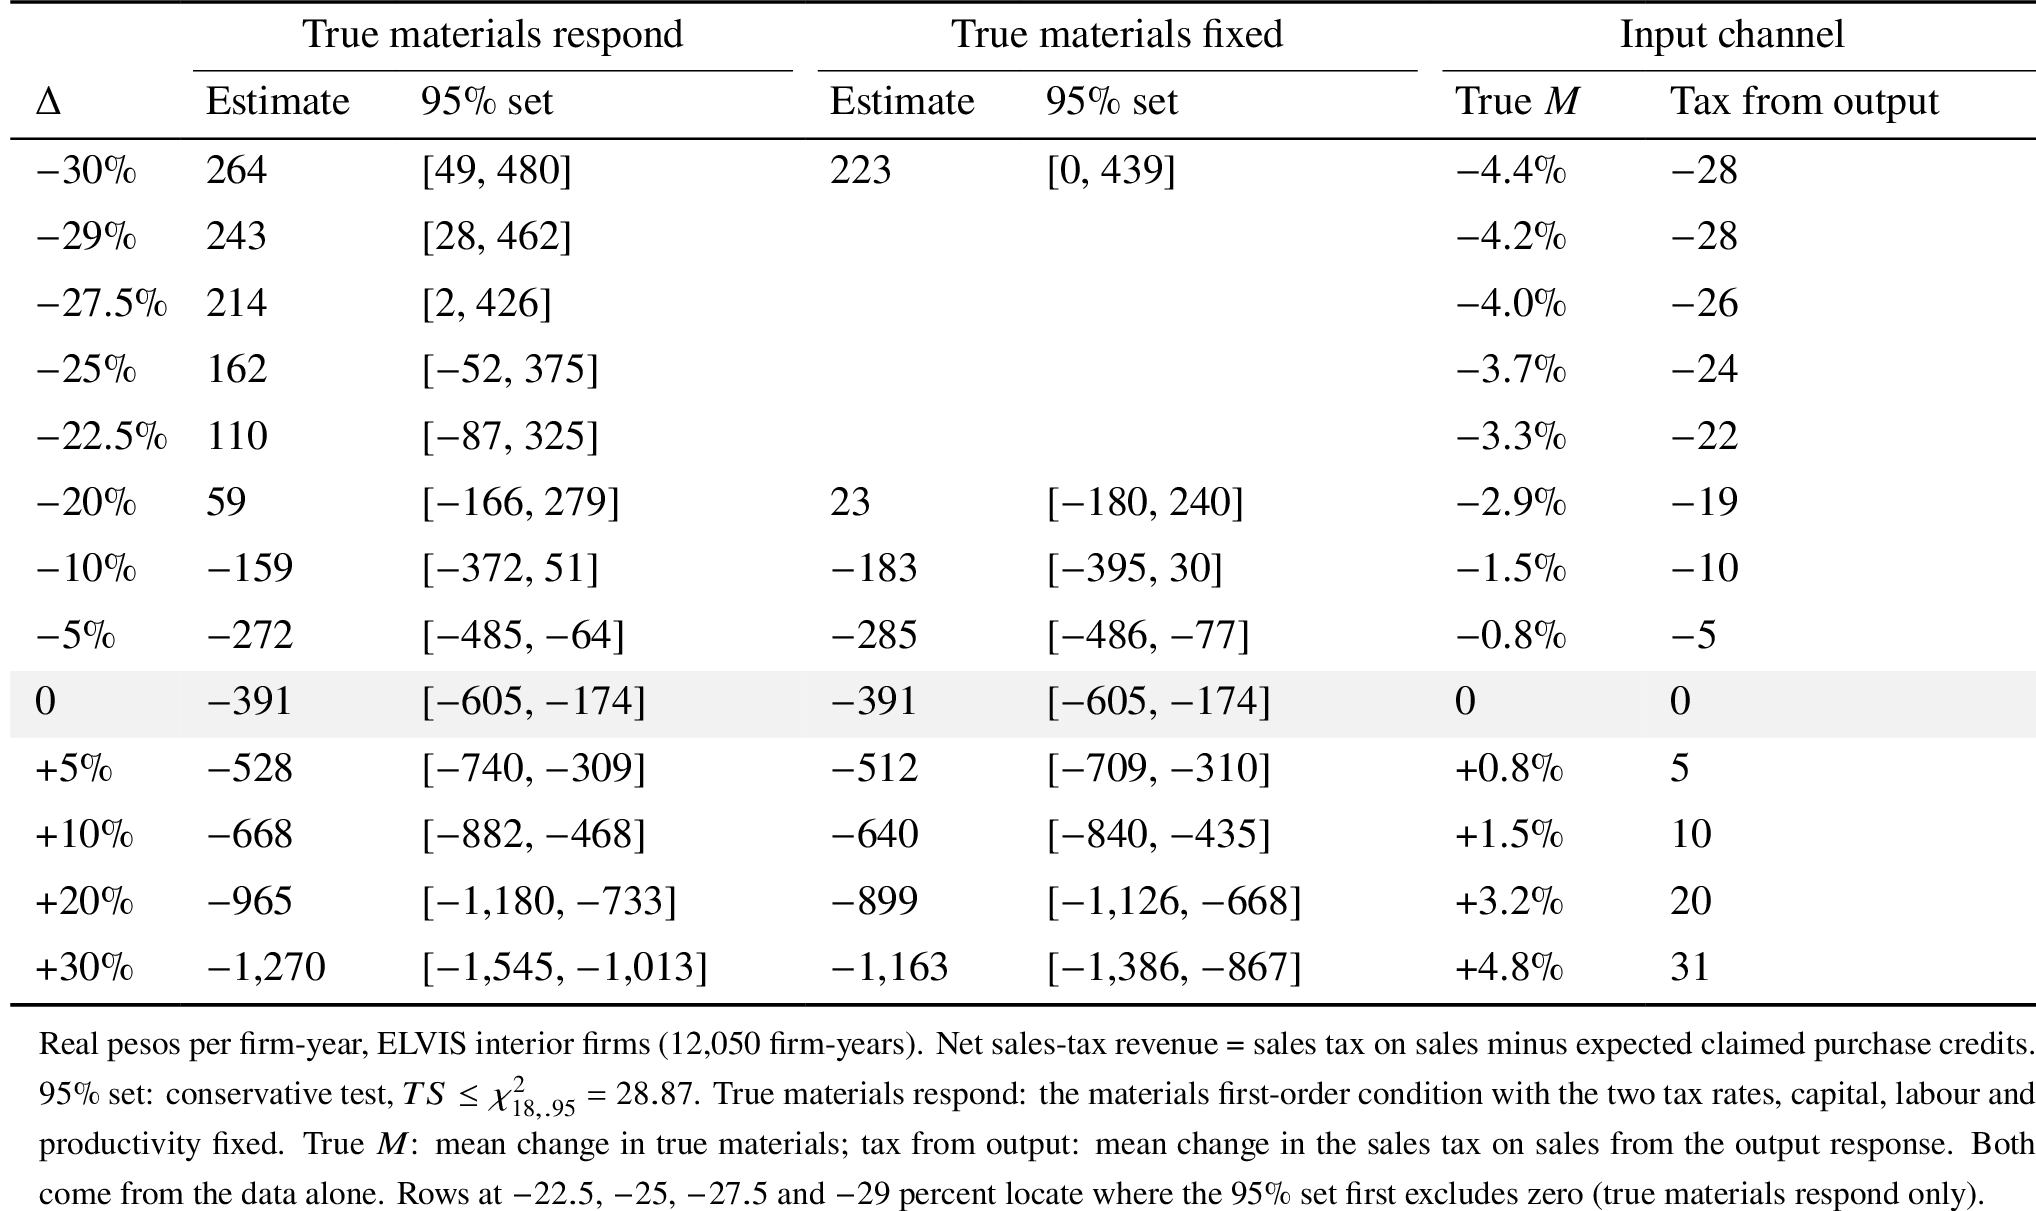
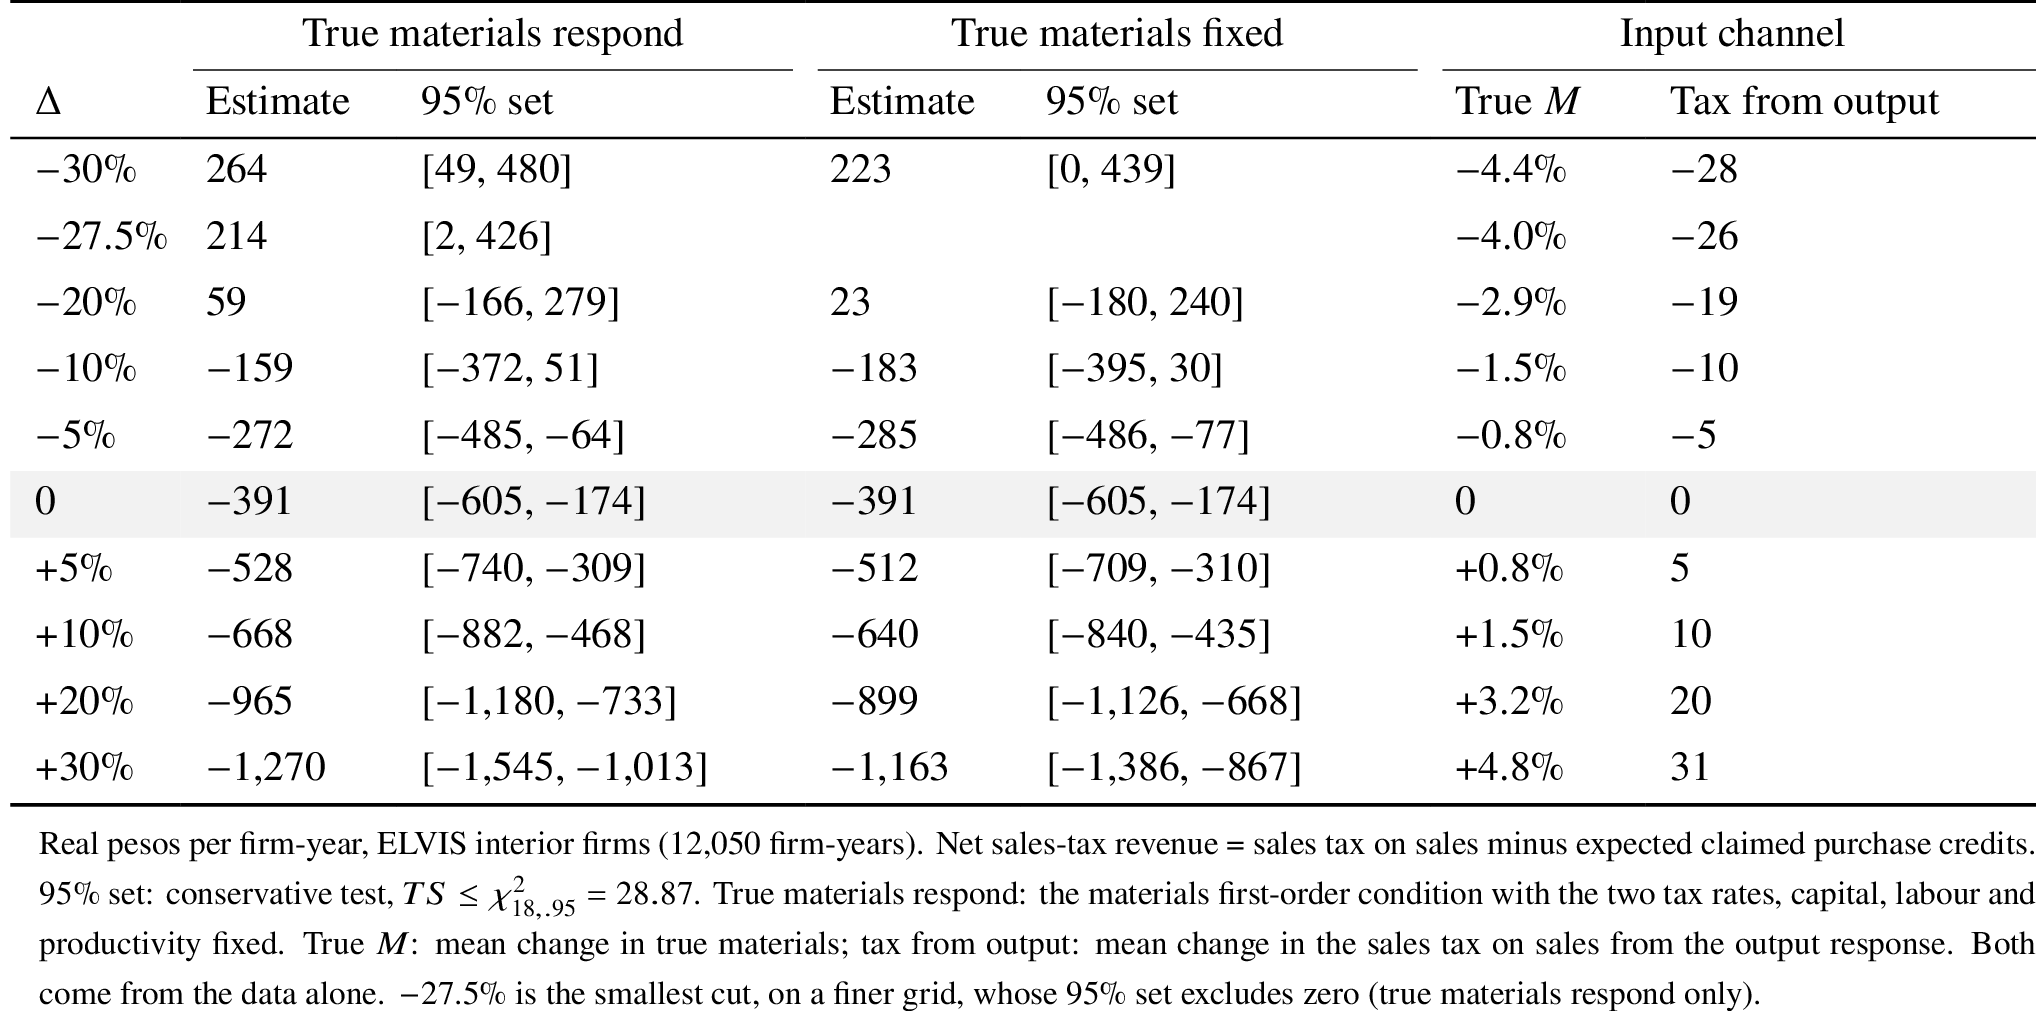
Ch. 8: claims-level material to a draft-only Superseded block; outline updated (two kinds of corner firms, no entry, lower bound on increases, allcorr check post-JMP); rewrite tracker; revenue table keeps only the -27.5% bracket row; PLAN post-JMP items

diff --git a/Thesis/PLAN.md b/Thesis/PLAN.md
@@ -136,6 +136,8 @@ JMP to supervisors **Tue 2026-10-13** (set 2026-10-06; the Sept 21–25 schedule
 | Tue 10-13 | Send to supervisors | `[ ]` |
 
 Post-deadline (not before Oct 13): κ sensitivity, D robustness, 1% level grid, M/M* flip (§7a), net-share denominator (§9a).
+Post-deadline, ch. 8 counterfactual (2026-10-07): claims levels with true materials responding (replace the 1622 claims figure/table, now draft-only); claims elasticities with true materials fixed (robustness); entry of corner firms in the 19 non-rejecting industries via design `allcorr` (stage-2 re-estimation; the increase-side response is a lower bound without it); share of firms that stop overreporting on a cut (new auxiliary target, engine review sequence).
+Ch. 8 rewrite tracker: the TRACKER comment below the outline in `Thesis/chapters/08-counterfactual.qmd`.
 
 ## 7. Open questions
 
